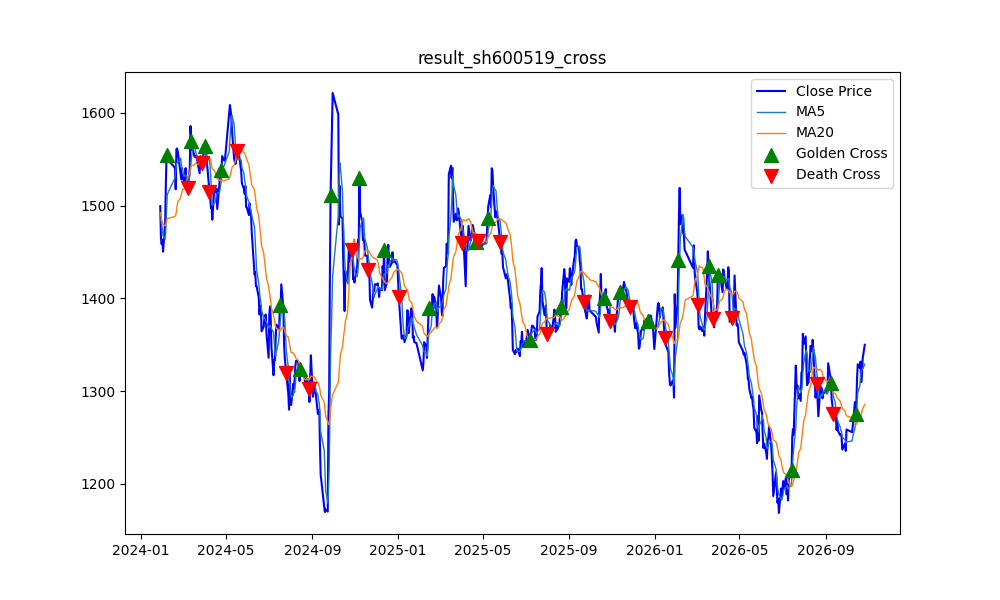
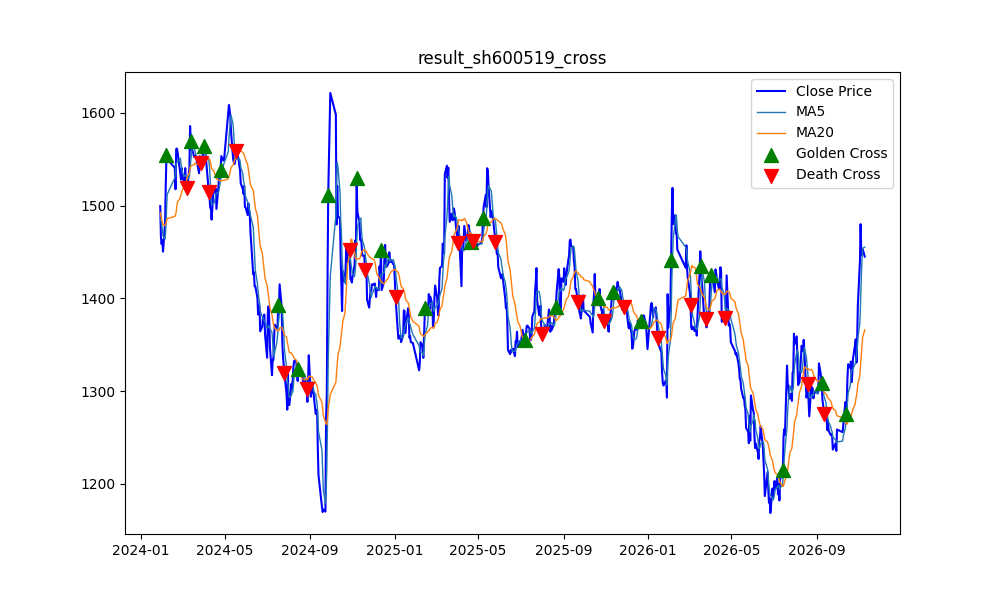
day 20: 金叉后 5/10 日平均收益（23 次，-0.0594% / -0.2828%）；print 补中文标签

diff --git a/python_study/get_ma_v2.py b/python_study/get_ma_v2.py
@@ -51,6 +51,8 @@ def get_ma(code, adjust="qfq", start_date="20240101"):
     df1 = pd.DataFrame({'close': df['close']})
     for w in windows:
         df1[f'ma{w}'] = ma(df, w)
+    df1["daily_return"] = df1["close"].pct_change()
+    df1["nav"] = (1 + df1["daily_return"].fillna(0)).cumprod()
     return df1
 
 # 加一列daily_return和一列累计收益率
@@ -63,18 +65,23 @@ def get_daily_return(code, adjust="qfq", start_date="20240101"):
 
 
 
+print("\n===== 取数结果（get_ma 的返回值，最后 5 行）=====")
+
 result_sh600519 = get_ma("sh600519", "qfq", "20240101")
+print("[sh600519 贵州茅台]")
 print(result_sh600519.tail())
 
 result_sz000001 = get_ma("sz000001", "qfq", "20240101")
+print("[sz000001 平安银行]")
 print(result_sz000001.tail())
 
 result_sh601318 = get_ma("sh601318", "qfq", "20240101")
+print("[sh601318 中国平安]")
 print(result_sh601318.tail())
 
 # 第一个"全部都有值"的日期
-cols = ["ma5", "ma20"]
-start = result_sh600519[cols].dropna().index[0]
+cols_ma20 = ["ma5", "ma20"] # 加了后缀 20 ，指明这里的全部都有值的日期是按照ma20来计算的
+start = result_sh600519[cols_ma20].dropna().index[0]
 result_sh600519_start = result_sh600519.loc[start:]
 
 
@@ -121,17 +128,35 @@ plt.show()
 plt.close(fig)
 
 # 首先统计金叉出现次数，result_sh600519_start[cross_sh600519 == 1]
-cross_count = result_sh600519_start['cross_sh600519'].value_counts()
-print(cross_count)
+result_sh600519_start["cross"] = cross_sh600519 # 新增几列我需要的数据
+result_sh600519_start["fwd5"] = result_sh600519_start["close"].shift(-5) / result_sh600519_start["close"] - 1
+result_sh600519_start["fwd10"] = result_sh600519_start["close"].shift(-10) / result_sh600519_start["close"] - 1
+
 # 计算每次金叉后 5 日、10 日的平均收益
 # 把金叉的日期选出来 ：golden_cross_idx(画图的时候已经选出来了)
 
+print("\n===== Day 20：金叉之后到底涨不涨 =====")
+print(f"切点（预热期结束的第一天）: {start.date()}")
+print(f"切完之后的行数            : {len(result_sh600519_start)}")
+print("事件分布（1=金叉，-1=死叉，0=没穿越；NaN 不计数）:")
+print(result_sh600519_start["cross"].value_counts())
+print(f"金叉后 5 个交易日的平均收益 : {result_sh600519_start.loc[result_sh600519_start['cross'] == 1, 'fwd5'].mean():.6f}")
+print(f"金叉后 10 个交易日的平均收益: {result_sh600519_start.loc[result_sh600519_start['cross'] == 1, 'fwd10'].mean():.6f}")
+
+print("\n===== 校验 1：状态列 s（1 = ma5 在 ma20 上方，0 = 下方）=====")
+print(f"NaN 个数（有多少行算不出来）: {s_sh600519.isna().sum()}")
+print(f"第一个有值的日期            : {s_sh600519.first_valid_index()}")
+print("最后 5 行:")
 print(s_sh600519.tail())
+
+print("\n===== 校验 2：事件列 A（手写循环版本）=====")
+print(f"NaN 个数（第一行没有前一天）: {diff_series.isna().sum()}")
+print(f"第一个有值的日期            : {diff_series.first_valid_index()}")
+print("最后 5 行:")
 print(diff_series.tail())
+
+print("\n===== 校验 3：事件列 B（s.diff() 版本）=====")
+print(f"NaN 个数（第一行没有前一天）: {cross_sh600519.isna().sum()}")
+print(f"第一个有值的日期            : {cross_sh600519.first_valid_index()}")
+print("最后 5 行:")
 print(cross_sh600519.tail())
-print(s_sh600519.isna().sum())
-print(s_sh600519.first_valid_index())
-print(diff_series.isna().sum())
-print(diff_series.first_valid_index())
-print(cross_sh600519.isna().sum())
-print(cross_sh600519.first_valid_index())
